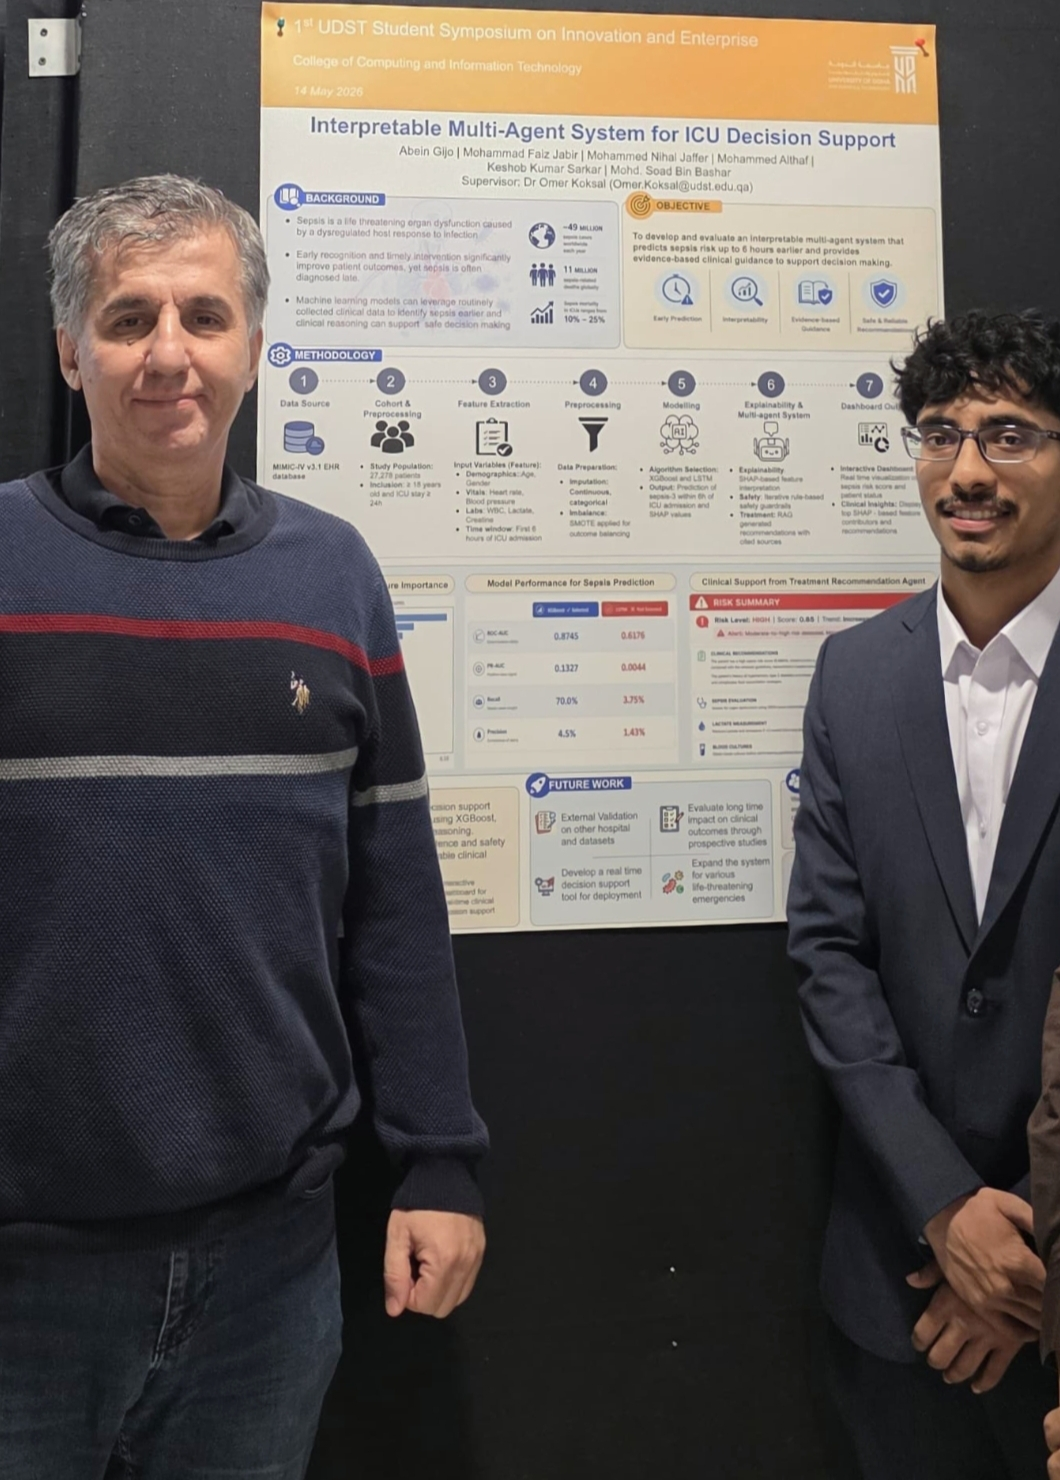
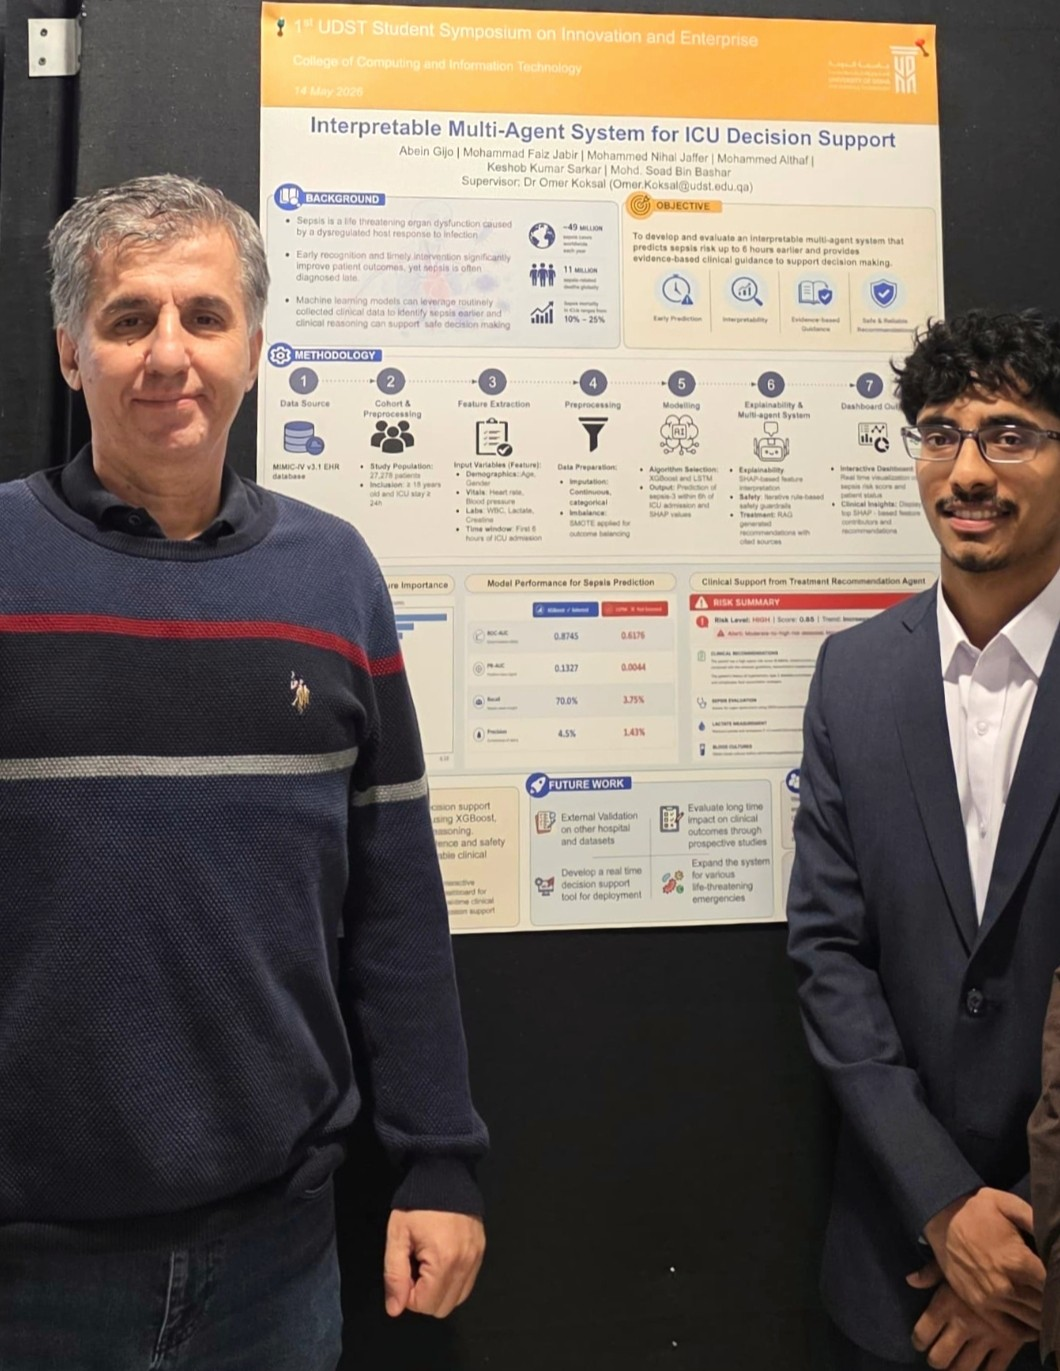
Add QSTP Stars of Science Hackathon achievement (Top 10)

diff --git a/index.html b/index.html
@@ -876,6 +876,22 @@
         <div class="stack">
           <article class="item has-logo">
             <div class="logo-pair">
+              <div class="logo-box">
+                <img src="QSTP.png" alt="Qatar Science & Technology Park logo">
+              </div>
+              <span class="logo-sep">×</span>
+              <div class="logo-box">
+                <img src="sos.jpg" alt="Stars of Science logo">
+              </div>
+            </div>
+            <div class="item-copy">
+              <h3>Top 10 — QSTP Stars of Science Hackathon</h3>
+              <p>Led a team of 4 to build Post Pulse, an AI-powered marketing workspace unifying content creation, optimization, and campaign management across six social platforms. Architected multi-modal AI features and delivered a working prototype and live pitch in 48 hours — one of 10 teams selected across Qatar.</p>
+            </div>
+          </article>
+
+          <article class="item has-logo">
+            <div class="logo-pair">
               <div class="logo-box dark">
                 <img src="uhub.png" alt="UHub logo">
               </div>
